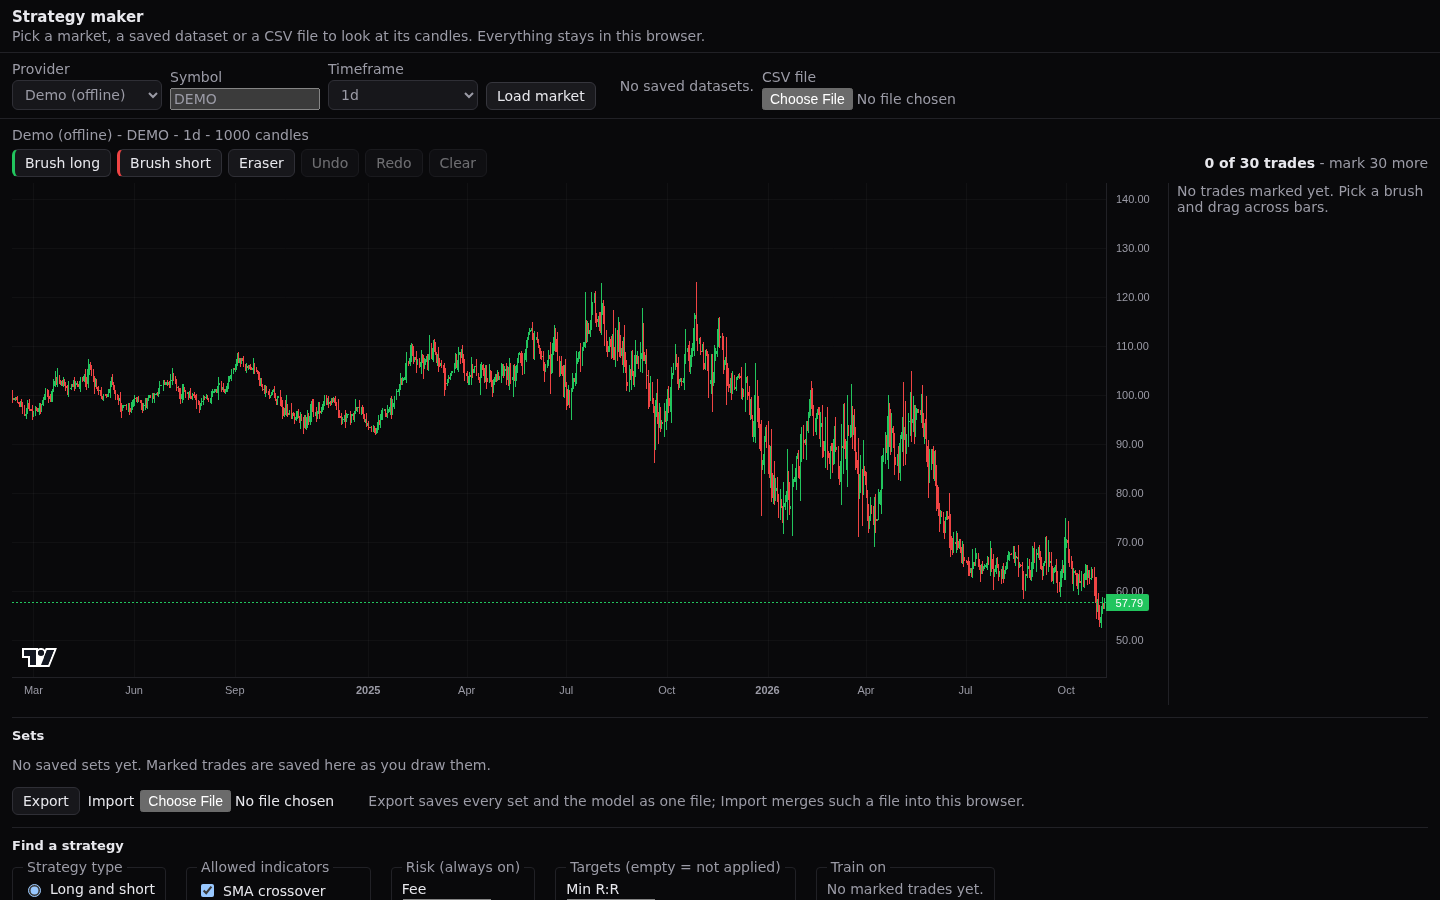
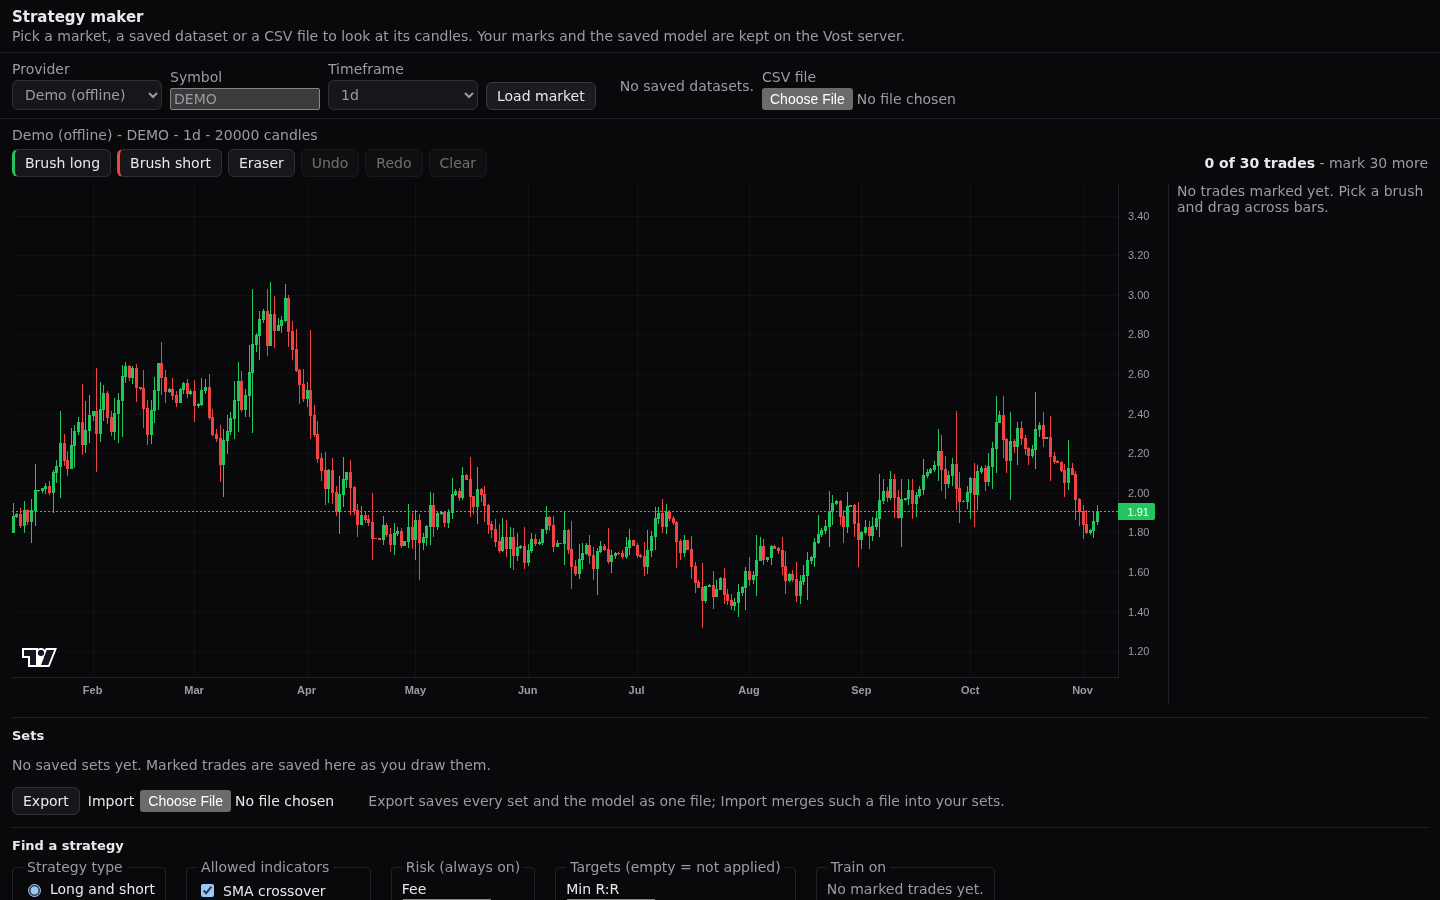
Strategy maker loads up to 20,000 candles and opens on the latest 300 bars (#408)

diff --git a/client/src/strategyMaker/StrategyMakerPage.tsx b/client/src/strategyMaker/StrategyMakerPage.tsx
@@ -27,10 +27,9 @@ import { TargetsForm, type SetChoice } from './TargetsForm';
 import { blocker, defaultForm, readForm, sanitizeForm } from './form';
 import { sourceLabel } from './run';
 import { useFind } from './useFind';
-import { loadFromCsv, loadFromDataset, loadFromProvider, readLibrary, type Loaded } from './data';
+import { loadFromCsv, loadFromDataset, loadFromProvider, readLibrary, PROVIDER_BARS, type Loaded } from './data';
 import './strategyMaker.css';
 
-const BARS = 1000;
 const SAVE_DELAY_MS = 400;
 const NO_TRADES: readonly HighlightTrade[] = [];
 const SAVE_INPUTS_MS = 400;
@@ -79,7 +78,7 @@ export default function StrategyMakerPage() {
   const formReady = useRef(false);
   const store = useRef<Store | null>(null);
   const model = useModel();
-  const find = useFind(BARS, library, (result, used) => void model.save(store.current, result, used));
+  const find = useFind(PROVIDER_BARS, library, (result, used) => void model.save(store.current, result, used));
   const [saved, setSaved] = useState<HighlightSet[]>([]);
   const savedRef = useRef<HighlightSet[]>([]);
   savedRef.current = saved;
@@ -249,7 +248,7 @@ export default function StrategyMakerPage() {
     const ctl = new AbortController();
     abort.current = ctl;
     setBusy(true);
-    const r = await loadFromProvider(getProvider(pid), { symbol: sym, timeframe: tf as Timeframe, bars: BARS }, ctl.signal);
+    const r = await loadFromProvider(getProvider(pid), { symbol: sym, timeframe: tf as Timeframe, bars: PROVIDER_BARS }, ctl.signal);
     if (ctl.signal.aborted) return;
     setBusy(false);
     show(r, { kind: 'provider', provider: pid, symbol: sym, timeframe: tf });

diff --git a/client/src/strategyMaker/data.test.ts b/client/src/strategyMaker/data.test.ts
@@ -2,7 +2,8 @@ import { afterEach, describe, expect, it, vi } from 'vitest';
 import { demoProvider } from '../lib/providers/demo';
 import type { DataProvider } from '../lib/providers/http';
 import { seedStorageForTest } from '../lib/storage';
-import { loadFromCsv, loadFromDataset, loadFromProvider, readLibrary } from './data';
+import { MAX_BARS } from '../../../shared/market.ts';
+import { OPENING_BARS, PROVIDER_BARS, loadFromCsv, loadFromDataset, loadFromProvider, openingRange, readLibrary } from './data';
 
 function stubStorage(value: string | null) {
   seedStorageForTest();
@@ -56,5 +57,27 @@ describe('loadFromCsv', () => {
   it('gives a message for text that is not candles', () => {
     const r = loadFromCsv('hello', 'x.csv');
     expect(r.ok).toBe(false);
+  });
+});
+
+describe('PROVIDER_BARS', () => {
+  it('is the most one request may ask, and a demo market then loads more than 1,000 candles', async () => {
+    expect(PROVIDER_BARS).toBe(MAX_BARS);
+    const r = await loadFromProvider(demoProvider, { symbol: demoProvider.defaultSymbol, timeframe: '1h', bars: PROVIDER_BARS });
+    expect(r.ok).toBe(true);
+    if (r.ok) expect(r.candles.length).toBeGreaterThan(1000);
+  });
+});
+
+describe('openingRange', () => {
+  it('fits a short series', () => {
+    expect(openingRange(100)).toBeNull();
+    expect(openingRange(OPENING_BARS)).toBeNull();
+  });
+  it('opens a long series on the latest bars with a small right pad', () => {
+    const r = openingRange(20000)!;
+    expect(r.from).toBe(20000 - OPENING_BARS);
+    expect(r.to).toBeGreaterThanOrEqual(19999);
+    expect(r.to).toBeLessThan(20010);
   });
 });

diff --git a/client/src/strategyMaker/data.ts b/client/src/strategyMaker/data.ts
@@ -1,11 +1,24 @@
 /** Loads candles for the strategy maker page: from a provider, the local library (read-only) or a CSV text. */
-import type { Candle } from '../../../shared/market.ts';
+import { MAX_BARS, type Candle } from '../../../shared/market.ts';
 import { candlesFromCsvText } from '../lib/csv';
 import { loadJson } from '../lib/storage';
 import type { DataProvider, HistoryRequest } from '../lib/providers/http';
 import type { Dataset } from '../types';
 
 export type Loaded = { ok: true; candles: Candle[]; label: string } | { ok: false; error: string };
+
+/** Bars a market load (and Find's refetch of a provider set) asks for: the most one history request may ask. */
+export const PROVIDER_BARS = MAX_BARS;
+
+/** Bars visible when the chart opens on a long series. */
+export const OPENING_BARS = 300;
+const RIGHT_PAD = 5;
+
+/** The logical range the chart opens on: the latest bars with a small right pad, or null (fit all) for a short series. */
+export function openingRange(count: number, view = OPENING_BARS): { from: number; to: number } | null {
+  if (count <= view) return null;
+  return { from: count - view, to: count - 1 + RIGHT_PAD };
+}
 
 const msg = (e: unknown): string => (e instanceof Error ? e.message : String(e));
 

diff --git a/client/src/strategyMaker/CandleChart.tsx b/client/src/strategyMaker/CandleChart.tsx
@@ -14,6 +14,7 @@ import { useEffect, useMemo, useRef } from 'react';
 import type { Candle } from '../../../shared/market.ts';
 import { DOWN_COLOR, UP_COLOR, chartTheme, theme } from '../lib/theme';
 import { strokeTrade, type HighlightTrade, type Tool } from './brush';
+import { openingRange } from './data';
 import { FoundMarks } from './foundMarks';
 import type { FoundTrade } from './run';
 import { TradeBands } from './tradeBands';
@@ -74,7 +75,9 @@ export function CandleChart({ candles, trades, tool, onStroke, focus, foundTrade
       wickDownColor: DOWN_COLOR,
     });
     series.setData(candles.map((c) => ({ time: c.time as UTCTimestamp, open: c.open, high: c.high, low: c.low, close: c.close })));
-    chart.timeScale().fitContent();
+    const opening = openingRange(candles.length);
+    if (opening) chart.timeScale().setVisibleLogicalRange(opening);
+    else chart.timeScale().fitContent();
     const prim = bands.current;
     series.attachPrimitive(prim);
     prim.setTrades(latest.current.trades);

diff --git a/e2e/capture/scenarios/strategy-maker.ts b/e2e/capture/scenarios/strategy-maker.ts
@@ -78,6 +78,9 @@ export const strategyMaker: Scenario = {
       await page.getByRole('button', { name: 'Load market' }).click();
       await page.getByText(/ candles$/).waitFor();
       await page.locator('.sm-chart canvas').first().waitFor();
+      const label = (await page.getByText(/ candles$/).first().textContent()) ?? '';
+      const count = Number(/([\d,]+) candles$/.exec(label)?.[1]?.replace(/,/g, ''));
+      if (!(count > 1000)) throw new Error(`expected more than 1000 candles, label: ${label}`);
     });
     await ctx.screenshot('market');
 

diff --git a/docs/guide/strategy-maker.md b/docs/guide/strategy-maker.md
@@ -6,7 +6,7 @@ The strategy maker is an optional page at `/strategy-maker` (type it after your 
 
 ## Where the data comes from
 
-- **A market**: choose a provider, a symbol (pick a popular one or type your own) and a timeframe, then **Load market**.
+- **A market**: choose a provider, a symbol (pick a popular one or type your own) and a timeframe, then **Load market**. A market load brings up to 20,000 candles (fewer where the provider has less; Kraken gives at most 720). The chart opens on the latest 300 or so bars so they stay readable; pan and zoom back to see the rest.
 - **A saved dataset**: datasets saved in the main app's library are listed read-only; the page never changes the library. With none saved it says "No saved datasets."
 - **A CSV file**: **CSV file** opens a file from your disk. A file that cannot be read shows a message on the page.
 
